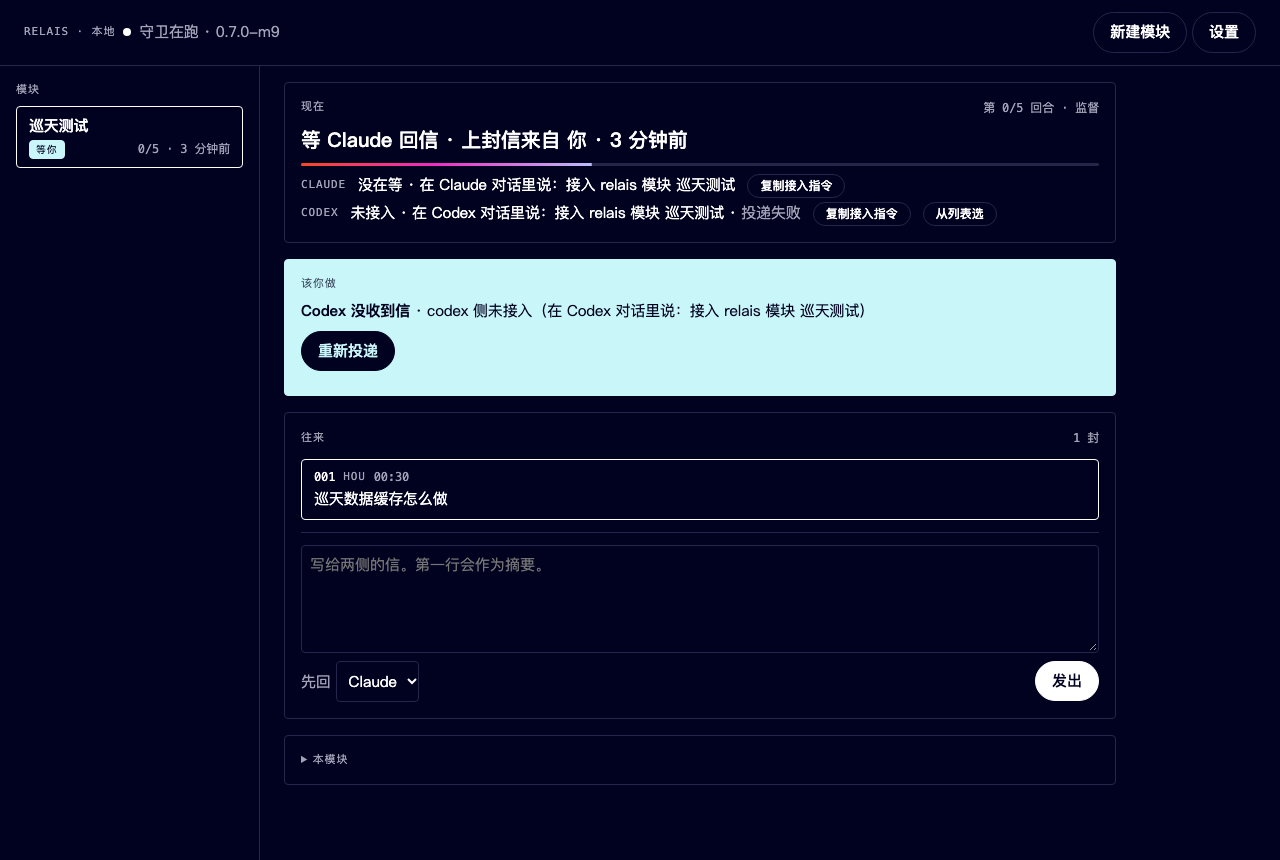
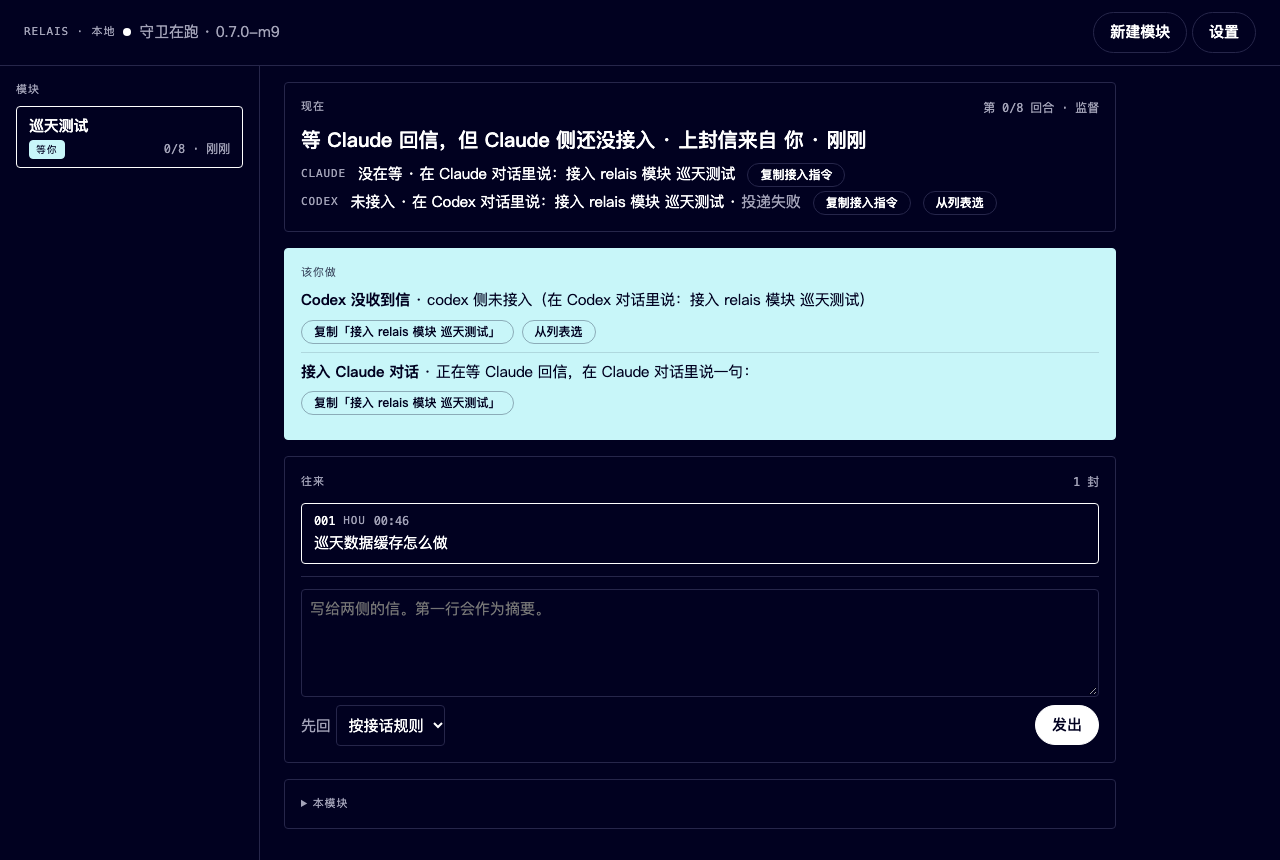
fix(web): 进行中指示只在被等的一侧真接上时出现；未接入时给接入办法而非重新投递（M9 Task 12 修复轮 1）
现在卡在被等侧未接入时如实写"还没接入"；该你做补"接入 Claude/Codex 对话"（codex 带从列表选）；
编辑框先回默认"按接话规则"；切换模块时丢弃过期响应；异步失败都有提示；深色模式危险色提亮；
删除时须输入模块名才连信件文件一起删。

diff --git a/internal/server/web/local/app.js b/internal/server/web/local/app.js
@@ -50,14 +50,14 @@ async function loadModules() {
     const chipClass = m.state === "等你" ? "you" : (m.state === "讨论中" ? "ink" : "");
     el.innerHTML = `<div class="name">${esc(m.name)}</div>
       <div class="meta"><span class="chip ${chipClass}">${esc(m.state)}</span><span class="mono muted">${m.round}/${m.round_cap} · ${esc(ago(m.last_at)) || "无信"}</span></div>`;
-    el.onclick = () => select(m.name);
+    el.onclick = () => select(m.name).catch((e) => toast(e.message));
     list.appendChild(el);
   }
-  if (!current && modules.length) select(modules[0].name);
+  if (!current && modules.length) select(modules[0].name).catch((e) => toast(e.message));
   else if (current) {
     const fresh = modules.find((m) => m.name === current.name);
     if (fresh) { current = fresh; renderNow(); }
-    else { current = null; if (sse) { sse.close(); sse = null; } if (modules.length) select(modules[0].name); }
+    else { current = null; if (sse) { sse.close(); sse = null; } if (modules.length) select(modules[0].name).catch((e) => toast(e.message)); }
   }
 }
 
@@ -69,8 +69,12 @@ async function select(name) {
   document.querySelectorAll(".module").forEach((el) => el.classList.toggle("active", el.querySelector(".name").textContent === name));
   renderNow();
   await loadMessages();
+  if (!current || current.name !== name) return; // 等待期间又换了模块
   openSSE();
 }
+const sideLabel = { claude: "Claude", codex: "Codex" };
+// 被等的那一侧是否接上了：claude 看 waiting，codex 看 attached
+function sideConnected(m, side) { return side === "claude" ? m.claude.waiting : side === "codex" ? m.codex.attached : false; }
 function sideText(m) {
   const c = m.claude, x = m.codex;
   const claude = c.waiting ? `在等信${c.session_name ? " · 对话「" + esc(c.session_name) + "」" : ""} · 从 ${esc(new Date(c.wait_since).toLocaleTimeString("zh-CN", { hour: "2-digit", minute: "2-digit" }))} 起`
@@ -85,15 +89,21 @@ function nowLine(m) {
   if (m.pending_conclusion) return m.pending_conclusion.awaiting_confirm ? `已握手，等你确认开工（承接方 ${m.pending_conclusion.owner}）` : `已握手，承接方 ${m.pending_conclusion.owner}`;
   if (m.needs_human_q) return "等你回答";
   if (m.last_seq === 0) return "还没有信。先在下面写第一封，或让任一侧开题。";
-  const who = { claude: "Claude", codex: "Codex", user: "你" }[m.waiting_for] || "";
   const from = { claude: "Claude", codex: "Codex", hou: "你" }[m.last_from] || m.last_from;
-  return `${who ? (m.waiting_for === "user" ? "等你" : "等 " + who + " 回信") : "空闲"} · 上封信来自 ${from} · ${ago(m.last_at)}`;
+  let head = "空闲";
+  if (m.waiting_for === "user") head = "等你";
+  else if (sideLabel[m.waiting_for]) {
+    const who = sideLabel[m.waiting_for];
+    head = sideConnected(m, m.waiting_for) ? `等 ${who} 回信` : `等 ${who} 回信，但 ${who} 侧还没接入`;
+  }
+  return `${head} · 上封信来自 ${from} · ${ago(m.last_at)}`;
 }
 function renderNow() {
   const m = current;
   $("now-line").textContent = nowLine(m);
   $("now-round").textContent = `第 ${m.round}/${m.round_cap} 回合 · ${m.mode === "autopilot" ? "甩手" : "监督"}`;
-  const busy = !m.closed && !m.needs_human_q && !m.pending_conclusion && (m.waiting_for === "claude" || m.waiting_for === "codex");
+  // 只有被等的那侧真接上了才算"进行中"，否则进度条是在说谎
+  const busy = !m.closed && !m.needs_human_q && !m.pending_conclusion && sideConnected(m, m.waiting_for);
   $("progress").hidden = !busy;
   const t = sideText(m);
   $("side-claude").innerHTML = t.claude;
@@ -123,13 +133,27 @@ function renderTodo(m) {
       <div class="row gap"><label class="small">先回 <select id="answer-first"><option value="">按接话规则</option><option value="claude">Claude</option><option value="codex">Codex</option></select></label>
       <button class="btn" data-act="answer">发送并继续</button><button class="btn ghost" data-act="resume">只继续，不回答</button></div></div>`);
   }
+  const hint = esc(attachHint(m.name));
+  const attachButtons = (side) => `<div class="row gap"><button class="btn ghost tiny" data-copy="${hint}">复制「${hint}」</button>${side === "codex" ? `<button class="btn ghost tiny" data-act="pick">从列表选</button>` : ""}</div>`;
+  const bothItem = !m.closed && !m.claude.waiting && !m.codex.attached && m.last_seq === 0;
+  let codexCovered = false;
   if (m.codex.delivery_error) {
-    items.push(`<div class="todo-item"><div><b>Codex 没收到信</b> · ${esc(m.codex.delivery_error)}</div><div><button class="btn" data-act="redeliver">重新投递</button></div></div>`);
+    if (m.codex.attached) {
+      items.push(`<div class="todo-item"><div><b>Codex 没收到信</b> · ${esc(m.codex.delivery_error)}</div><div><button class="btn" data-act="redeliver">重新投递</button></div></div>`);
+    } else if (!bothItem) {
+      // 没接入时重新投递没用：直接给接入办法
+      items.push(`<div class="todo-item"><div><b>Codex 没收到信</b> · ${esc(m.codex.delivery_error)}</div>${attachButtons("codex")}</div>`);
+      codexCovered = true;
+    }
+  }
+  const ws = m.waiting_for;
+  if (!m.closed && !bothItem && sideLabel[ws] && !sideConnected(m, ws) && !(ws === "codex" && codexCovered)) {
+    items.push(`<div class="todo-item"><div><b>接入 ${sideLabel[ws]} 对话</b> · 正在等 ${sideLabel[ws]} 回信，在 ${sideLabel[ws]} 对话里说一句：</div>${attachButtons(ws)}</div>`);
   }
   if (m.rejected && m.rejected.length) {
     items.push(`<div class="todo-item"><div><b>有信没法读</b> · outbox 里：${esc(m.rejected.join("、"))}（同名 .txt 里有原因）</div></div>`);
   }
-  if (!m.closed && !m.claude.waiting && !m.codex.attached && m.last_seq === 0) {
+  if (bothItem) {
     items.push(`<div class="todo-item"><div><b>接入两侧对话</b> · 在各自的对话里说一句：</div>
       <div class="row gap"><button class="btn ghost tiny" data-copy="${esc(attachHint(m.name))}">复制「${esc(attachHint(m.name))}」</button></div></div>`);
   }
@@ -140,6 +164,7 @@ function renderTodo(m) {
 async function act(name) {
   const n = encodeURIComponent(current.name);
   try {
+    if (name === "pick") return pickCodex();
     if (name === "kickoff") await api(`/api/channels/${n}/auto/kickoff`, { method: "POST" });
     if (name === "resume") await api(`/api/channels/${n}/auto/resume`, { method: "POST" });
     if (name === "redeliver") await api(`/api/local/modules/${n}/redeliver`, { method: "POST" });
@@ -163,7 +188,10 @@ async function sendLetter(text, first) {
 // ---------- 往来 ----------
 const kindLabel = { resolved: "收敛提议", conclusion: "结论", kickoff: "开工", "needs-human": "需要你" };
 async function loadMessages() {
-  messages = await api(`/api/channels/${encodeURIComponent(current.name)}/messages`);
+  const name = current.name;
+  const list = await api(`/api/channels/${encodeURIComponent(name)}/messages`);
+  if (!current || current.name !== name) return; // 过期的响应
+  messages = list;
   renderTimeline();
 }
 function renderTimeline() {
@@ -179,8 +207,10 @@ function renderTimeline() {
       <div class="summary">${esc(m.summary)}</div><div class="body" hidden></div>`;
     el.querySelector(".summary").onclick = async () => {
       const b = el.querySelector(".body");
-      if (b.hidden && !b.innerHTML) { const full = await api(`/api/messages/${m.id}`); b.innerHTML = md(full.body_md); }
-      b.hidden = !b.hidden;
+      try {
+        if (b.hidden && !b.innerHTML) { const full = await api(`/api/messages/${m.id}`); b.innerHTML = md(full.body_md); }
+        b.hidden = !b.hidden;
+      } catch (e) { toast(e.message); }
     };
     tl.appendChild(el);
   }
@@ -192,7 +222,7 @@ function openSSE() {
   sse.addEventListener("message", (ev) => {
     const m = JSON.parse(ev.data);
     if (!messages.some((x) => x.id === m.id)) { messages.push(m); renderTimeline(); }
-    loadModules();
+    loadModules().catch((e) => toast(e.message));
   });
 }
 
@@ -236,7 +266,8 @@ async function closeModule(reopen) {
 }
 async function deleteModule() {
   if (!confirm(`删除模块「${current.name}」的记录？项目里的信件文件默认保留。`)) return;
-  const files = confirm("同时删除项目里的 relais/mail/" + current.name + " 目录？（取消 = 保留文件）");
+  const typed = prompt("要连信件文件（relais/mail/" + current.name + "）一起删吗？输入模块名确认；留空或取消 = 只删记录、保留文件");
+  const files = typed !== null && typed.trim() === current.name;
   try {
     await api(`/api/local/modules/${encodeURIComponent(current.name)}${files ? "?files=1" : ""}`, { method: "DELETE" });
     current = null; if (sse) sse.close(); await loadModules();

diff --git a/internal/server/web/local/index.html b/internal/server/web/local/index.html
@@ -48,7 +48,7 @@
       <form id="composer" class="composer">
         <textarea id="compose-body" rows="4" placeholder="写给两侧的信。第一行会作为摘要。"></textarea>
         <div class="row between">
-          <label class="muted">先回 <select id="compose-first"><option value="claude">Claude</option><option value="codex">Codex</option></select></label>
+          <label class="muted">先回 <select id="compose-first"><option value="" selected>按接话规则</option><option value="claude">Claude</option><option value="codex">Codex</option></select></label>
           <button class="btn" type="submit">发出</button>
         </div>
       </form>

diff --git a/internal/server/web/local/style.css b/internal/server/web/local/style.css
@@ -6,7 +6,7 @@
   --s1: 4px; --s2: 8px; --s3: 12px; --s4: 16px; --s6: 24px; --s8: 32px;
 }
 @media (prefers-color-scheme: dark) {
-  :root { --canvas: #010120; --ink: #ffffff; --line: #26264a; --muted: #a3a3b8; --mint: #c8f6f9; --mint-ink: #010120; }
+  :root { --canvas: #010120; --ink: #ffffff; --line: #26264a; --muted: #a3a3b8; --mint: #c8f6f9; --mint-ink: #010120; --danger: #ff8a80; }
 }
 * { box-sizing: border-box; }
 [hidden] { display: none !important; }
